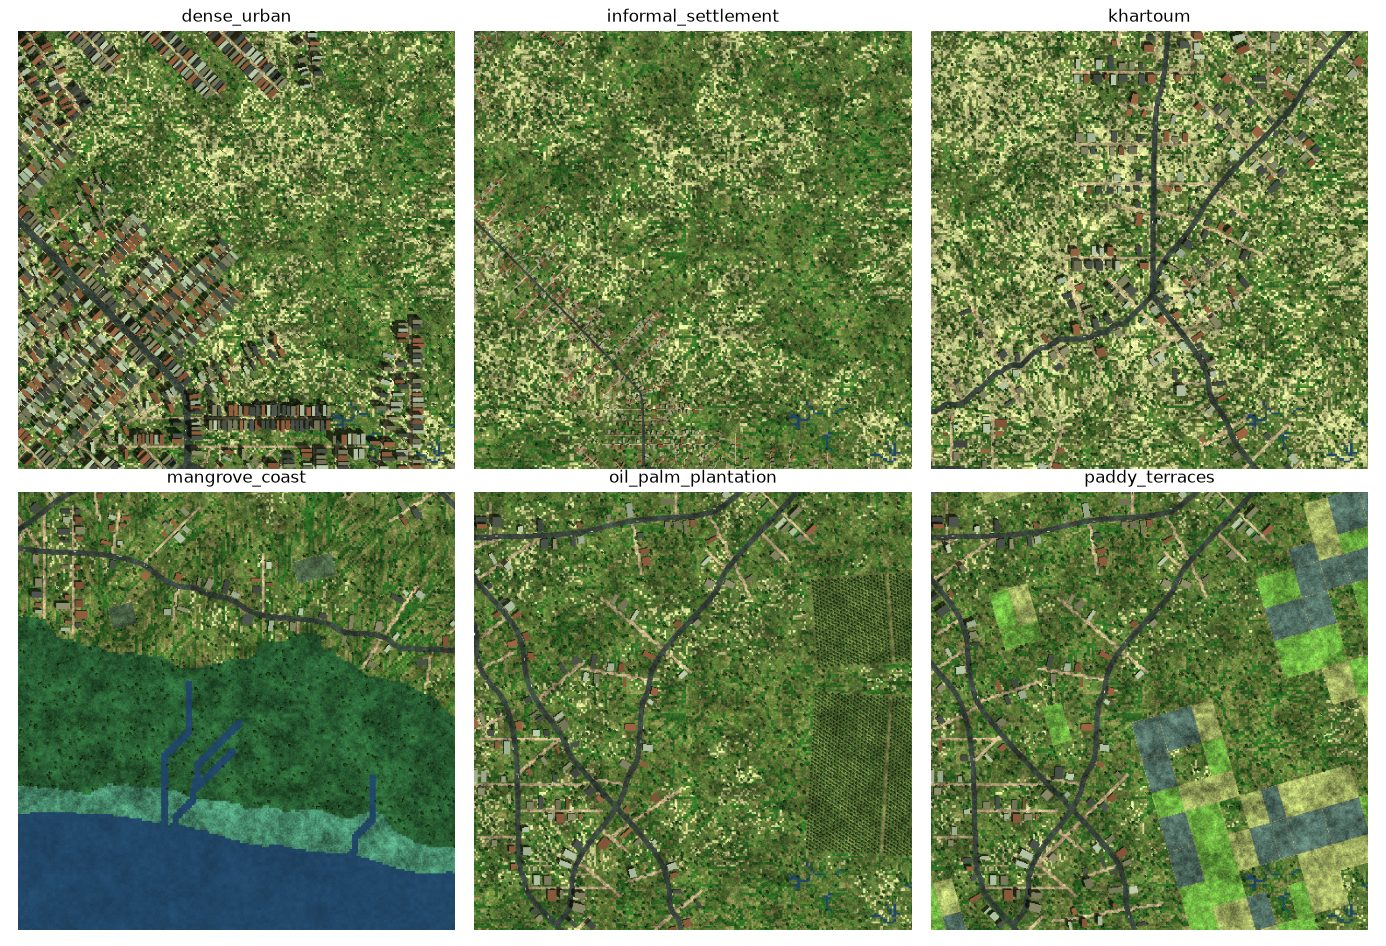
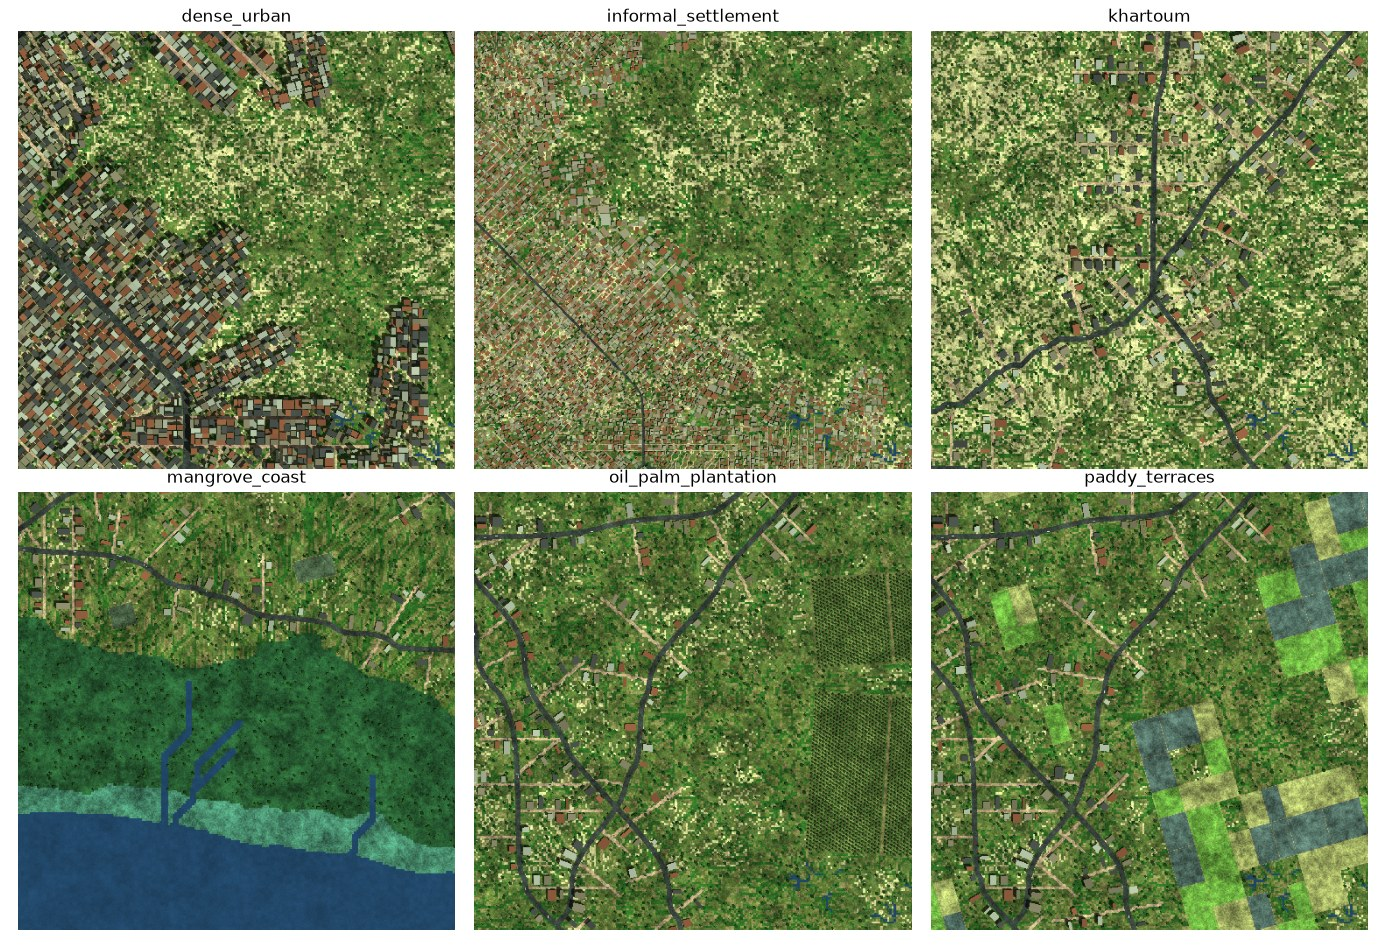
Street-block lots so building cover rises beyond frontage strips (FRK-60)

Changed region(s): [[0.0, 0.0307, 0.6515, 0.5211]]

diff --git a/src/fraktal/settlement.py b/src/fraktal/settlement.py
@@ -15,7 +15,9 @@ from typing import Any
 import geopandas as gpd
 import numpy as np
 from affine import Affine
-from shapely.geometry import Polygon
+from shapely import affinity
+from shapely.geometry import LineString, Point, Polygon, box
+from shapely.ops import split, unary_union
 from shapely.strtree import STRtree
 
 from fraktal.coast import UNBUILDABLE
@@ -35,6 +37,8 @@ class ParcelConfig:
     local_only: bool = False  # parcels on arterials too by default
     road_overlap_share: float = 0.03  # sliver a curved carriageway may clip off a parcel edge
     skew_deg: float = 0.0  # random shear of each parcel's side edges; 0 keeps them square
+    blocks: bool = False  # carve street blocks and subdivide them, interior lots included
+    block_depth_m: float = 60.0  # blocks reach this far from a street edge, no further
 
 
 @dataclass(frozen=True)
@@ -95,6 +99,62 @@ def _frontage_parcels(
     return out
 
 
+def _split_lot(lot: Polygon, rng: Any, config: ParcelConfig, depth: int = 0) -> list[Polygon]:
+    """Cut a block piece across its long side until each lot is about one parcel in area."""
+    lo = config.frontage_m[0] * config.depth_m[0]
+    hi = config.frontage_m[1] * config.depth_m[1]
+    target = float(rng.uniform(lo, hi))
+    if lot.area <= target or lot.area < 2 * config.min_area_m2 or depth >= 12:
+        return [lot]
+    (x0, y0), (x1, y1), (x2, y2), _ = list(lot.minimum_rotated_rectangle.exterior.coords)[:4]
+    a, b = math.hypot(x1 - x0, y1 - y0), math.hypot(x2 - x1, y2 - y1)
+    ux, uy = ((x1 - x0) / a, (y1 - y0) / a) if a >= b else ((x2 - x1) / b, (y2 - y1) / b)
+    cx, cy = lot.centroid.x, lot.centroid.y
+    t = float(rng.uniform(-0.15, 0.15)) * max(a, b)
+    px, py = cx + ux * t, cy + uy * t
+    reach = lot.length  # longer than any chord through the lot
+    if config.skew_deg:  # slant the cut so neighbouring plots are not parallel
+        angle = math.radians(float(rng.uniform(-1, 1)) * config.skew_deg * 0.5)
+        c, sn = math.cos(angle), math.sin(angle)
+        ux, uy = ux * c - uy * sn, ux * sn + uy * c
+    cut = LineString([(px - uy * reach, py + ux * reach), (px + uy * reach, py - ux * reach)])
+    pieces = [g for g in split(lot, cut).geoms if isinstance(g, Polygon) and g.area > 1e-6]
+    if len(pieces) < 2:
+        return [lot]
+    pieces.sort(key=lambda g: (round(g.centroid.x, 3), round(g.centroid.y, 3)))
+    return [lot2 for g in pieces for lot2 in _split_lot(g, rng, config, depth + 1)]
+
+
+def _block_parcels(
+    roads: gpd.GeoDataFrame, dry: gpd.GeoDataFrame, transform: Affine, shape: tuple[int, ...],
+    seed: int, config: ParcelConfig,
+) -> list[tuple[Polygon, str, str]]:  # fmt: skip
+    """Lots cut from the land between the streets, out to ``block_depth_m`` from a street edge."""
+    west, north = transform @ (0, 0)
+    east, south = transform @ (shape[1], shape[0])
+    region = box(min(west, east), min(south, north), max(west, east), max(south, north))
+    carriage = unary_union([r.geometry.buffer(r.width_m / 2) for _, r in roads.iterrows()])
+    halo = unary_union(
+        [
+            r.geometry.buffer(r.width_m / 2 + config.block_depth_m)
+            for _, r in dry.sort_values("id").iterrows()
+        ]
+    )
+    band = region.intersection(halo).difference(carriage)
+    blocks = [g for g in getattr(band, "geoms", [band]) if isinstance(g, Polygon) and g.area > 1]
+    blocks.sort(key=lambda g: (round(g.centroid.x, 3), round(g.centroid.y, 3)))
+    ids = list(dry.sort_values("id").id)
+    tree = STRtree([r.geometry for _, r in dry.sort_values("id").iterrows()])
+    out: list[tuple[Polygon, str, str]] = []
+    for block in blocks:
+        key = f"{round(block.centroid.x)}:{round(block.centroid.y)}"
+        rng = substream(seed, f"blocks:{key}")
+        for lot in _split_lot(block, rng, config):
+            road_id = ids[int(tree.nearest(lot.centroid))]
+            out.append((lot, road_id, "local"))
+    return out
+
+
 def build_parcels(
     roads: gpd.GeoDataFrame,
     landcover: Any,
@@ -115,10 +175,13 @@ def build_parcels(
     ]
     road_tree = STRtree([g for g, _ in carriageways])
     candidates: list[tuple[Polygon, str, str]] = []
-    for _, road in dry_roads.sort_values("id").iterrows():
-        rng = substream(seed, f"parcels:{road.id}")
-        for poly in _frontage_parcels(road.geometry, road.width_m / 2, rng, config):
-            candidates.append((poly, road.id, road.road_class))
+    if config.blocks:
+        candidates = _block_parcels(roads, dry_roads, transform, landcover.shape, seed, config)
+    else:
+        for _, road in dry_roads.sort_values("id").iterrows():
+            rng = substream(seed, f"parcels:{road.id}")
+            for poly in _frontage_parcels(road.geometry, road.width_m / 2, rng, config):
+                candidates.append((poly, road.id, road.road_class))
     polys = [p for p, _, _ in candidates]
     tree = STRtree(polys)
     accepted = [False] * len(candidates)
@@ -158,6 +221,7 @@ def build_buildings(
     seed: int,
     config: BuildingConfig | None = None,
     world: str = "buildings",
+    road_lines: dict[str, Any] | None = None,
 ) -> gpd.GeoDataFrame:
     """A ``building`` layer with one footprint inside each chosen parcel, facing its road."""
     config = config or BuildingConfig()
@@ -185,7 +249,12 @@ def build_buildings(
         tin_roll = float(rng.uniform()) if config.roof_materials else 0.0
         if roll >= chance:
             continue
-        footprint = _footprint(parcel.geometry, config, width_share, depth_share)
+        if road_lines is None:
+            footprint = _footprint(parcel.geometry, config, width_share, depth_share)
+        else:  # block lots are free-form: fit a rectangle facing the street
+            footprint = _lot_footprint(
+                parcel.geometry, road_lines[parcel.road_id], config, width_share, depth_share
+            )
         if footprint is None:
             continue
         feature: dict[str, Any] = {
@@ -231,6 +300,25 @@ def _footprint(
             corner(left, near + d),
         ]
     )
+
+
+def _lot_footprint(
+    lot: Polygon, street: Any, config: BuildingConfig, width_share: float, depth_share: float
+) -> Polygon | None:
+    """A footprint in a free-form lot: its bounding rectangle turned so the street side is first."""
+    ring = list(lot.minimum_rotated_rectangle.exterior.coords)[:4]
+    near = [street.distance(Point((a[0] + b[0]) / 2, (a[1] + b[1]) / 2))
+            for a, b in zip(ring, ring[1:] + ring[:1], strict=True)]  # fmt: skip
+    k = int(np.argmin(near))
+    rect = Polygon(ring[k:] + ring[:k])
+    centre = lot.centroid
+    for step in range(0, 13):  # shrink about the centre until the footprint fits the lot
+        f = 1.0 - 0.05 * step
+        fitted = affinity.scale(rect, f, f, origin=centre)
+        footprint = _footprint(fitted, config, width_share, depth_share)
+        if footprint is not None and lot.buffer(1e-6).contains(footprint):
+            return footprint
+    return None
 
 
 def arterial_centres(roads: gpd.GeoDataFrame) -> list[tuple[float, float]]:

diff --git a/tests/unit/test_settlement.py b/tests/unit/test_settlement.py
@@ -118,3 +118,35 @@ def test_same_seed_same_world_and_a_local_only_option() -> None:
     local = build_parcels(roads, land, TRANSFORM, SEED, ParcelConfig(local_only=True))
     assert set(roads.set_index("id").loc[local.road_id, "road_class"]) == {"local"}
     assert len(local) < len(a)
+
+
+def test_block_lots_cover_more_than_frontage_strips_and_stay_valid() -> None:
+    land, roads = scene(water=True)
+    strips = build_parcels(roads, land, TRANSFORM, SEED)
+    cfg = ParcelConfig(blocks=True, block_depth_m=60.0)
+    lots = build_parcels(roads, land, TRANSFORM, SEED, cfg)
+    validate_layer(lots, "parcel")
+    assert lots.area.sum() > 1.2 * strips.area.sum()
+    geoms = list(lots.geometry)
+    index = STRtree(geoms)
+    for i, g in enumerate(geoms):
+        assert g.is_valid and g.area >= cfg.min_area_m2
+        assert all(j <= i or g.intersection(geoms[j]).area < 1e-6 for j in index.query(g))
+    carriageways = [row.geometry.buffer(row.width_m / 2) for _, row in roads.iterrows()]
+    road_index = STRtree(carriageways)
+    for g in geoms:
+        for j in road_index.query(g):
+            assert g.intersection(carriageways[j]).area <= 0.03 * g.area + 1e-6
+    assert lots.equals(build_parcels(roads, land, TRANSFORM, SEED, cfg))  # deterministic
+
+
+def test_block_buildings_sit_inside_their_lot_and_face_a_street() -> None:
+    land, roads = scene()
+    lots = build_parcels(roads, land, TRANSFORM, SEED, ParcelConfig(blocks=True))
+    lines = dict(zip(roads.id, roads.geometry, strict=True))
+    buildings = build_buildings(lots, arterial_centres(roads), SEED, road_lines=lines)
+    validate_layer(buildings, "building")
+    by_lot = dict(zip(lots.id, lots.geometry, strict=True))
+    assert len(buildings) > 50
+    for _, b in buildings.iterrows():
+        assert by_lot[b.parcel_id].buffer(1e-6).contains(b.geometry)

diff --git a/src/fraktal/biomes.py b/src/fraktal/biomes.py
@@ -53,7 +53,13 @@ BIOMES: dict[str, Biome] = {
                 local_length_m=(150.0, 500.0),
                 local_probability=1.0,
             ),
-            parcels=ParcelConfig(frontage_m=(9.0, 15.0), depth_m=(28.0, 33.0), min_area_m2=120.0),
+            parcels=ParcelConfig(
+                frontage_m=(9.0, 15.0),
+                depth_m=(28.0, 33.0),
+                min_area_m2=120.0,
+                blocks=True,
+                block_depth_m=30.0,
+            ),
             buildings=BuildingConfig(
                 built_probability_core=0.99,
                 built_probability_edge=0.9,
@@ -84,7 +90,12 @@ BIOMES: dict[str, Biome] = {
                 local_probability=1.0,
             ),
             parcels=ParcelConfig(
-                frontage_m=(5.0, 9.0), depth_m=(9.0, 16.0), min_area_m2=40.0, skew_deg=18.0
+                frontage_m=(5.0, 9.0),
+                depth_m=(9.0, 16.0),
+                min_area_m2=40.0,
+                skew_deg=18.0,
+                blocks=True,
+                block_depth_m=32.0,
             ),
             buildings=BuildingConfig(
                 built_probability_core=0.97,

diff --git a/src/fraktal/procedural.py b/src/fraktal/procedural.py
@@ -41,6 +41,8 @@ LATER_FIELDS = (
     ("buildings", "roof_materials"),
     ("buildings", "tin_share"),
     ("parcels", "skew_deg"),
+    ("parcels", "blocks"),
+    ("parcels", "block_depth_m"),
 )
 
 
@@ -117,8 +119,13 @@ def generate_world(
     emit("generate_stage", stage="terrain_and_landcover_done")
     roads = build_roads(dem, land, config.gsd_m, transform, crs, seed, config.roads, world="roads")
     parcels = settlement.build_parcels(roads, land, transform, seed, config.parcels)
+    lines = {r.id: r.geometry for _, r in roads.iterrows()} if config.parcels.blocks else None
     buildings = settlement.build_buildings(
-        parcels, settlement.arterial_centres(roads), seed, config.buildings
+        parcels,
+        settlement.arterial_centres(roads),
+        seed,
+        config.buildings,
+        road_lines=lines,
     )
     fields = build_fields(
         land,

diff --git a/docs/research/tropical-test-set.md b/docs/research/tropical-test-set.md
@@ -120,3 +120,21 @@ alleys take space from the parcels on the streets already there; lifting the cap
 centres changed nothing. The targets on the card (25% and 20%) were not reached. What limits
 cover now is that parcels exist only in strips along streets, so a street-block generator is the
 next step, not more parameters.
+
+### After FRK-60 (street blocks)
+
+`ParcelConfig.blocks` (off by default, on for dense_urban and informal_settlement) carves the land
+between the streets, out to `block_depth_m` from a street edge, and splits each block across its long
+side until a lot is about one parcel in area. Interior lots are included, so a lot need not touch a
+street; each takes the id of its nearest street, and its building is fitted as a rectangle turned to
+face that street. Informal cuts are slanted by up to half of `skew_deg`, so plots are not parallel.
+Block names come from the rounded block centre, so a block's lots do not move when another block
+changes. The default biome and every other biome keep their ids and bytes (the pinned test passes);
+the two new settings are left out of the world id while at their defaults.
+
+Building cover over a 2 km tile, seed 3: dense_urban 22.2% to 26.9% (depth 30 m); informal_settlement
+11.3% to 22.5% (depth 32 m). The targets were 25% and 20%. Building counts rose from 2,960 to 6,415 and
+from 7,518 to 18,620. Cover depends on tile size and seed (a 1 km tile gave lower numbers), so these
+are one seed, one size. The effect on edge energy and contrast against the 5 real chips was **not
+re-measured**; the earlier table above is from before blocks. The overview sheet
+(`docs/img/biome-overview.jpg`) is regenerated.
